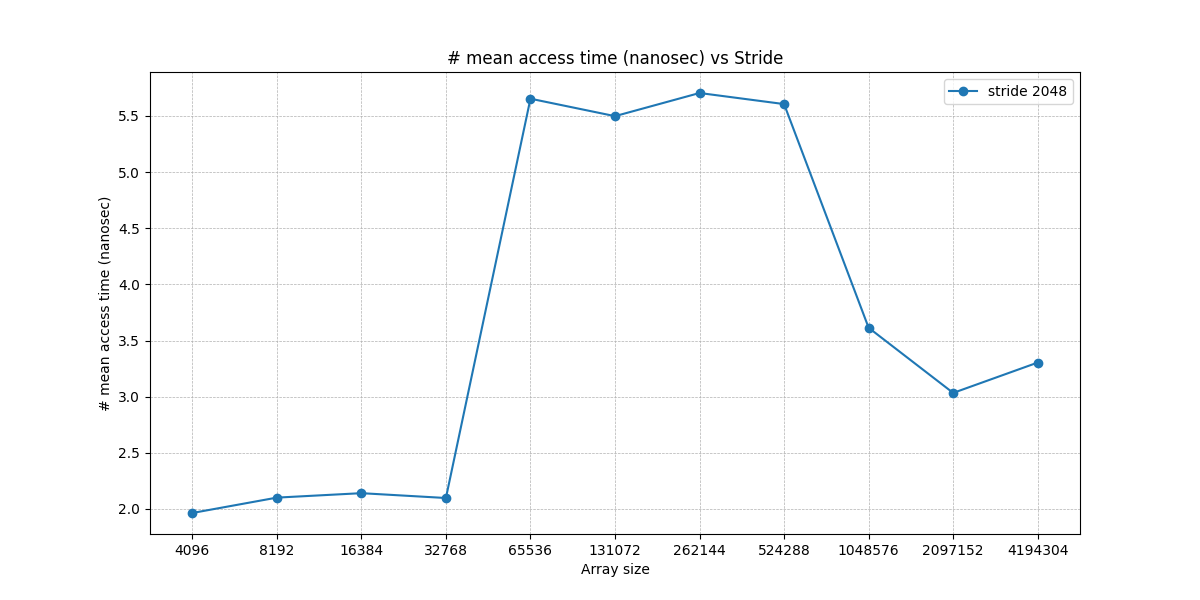
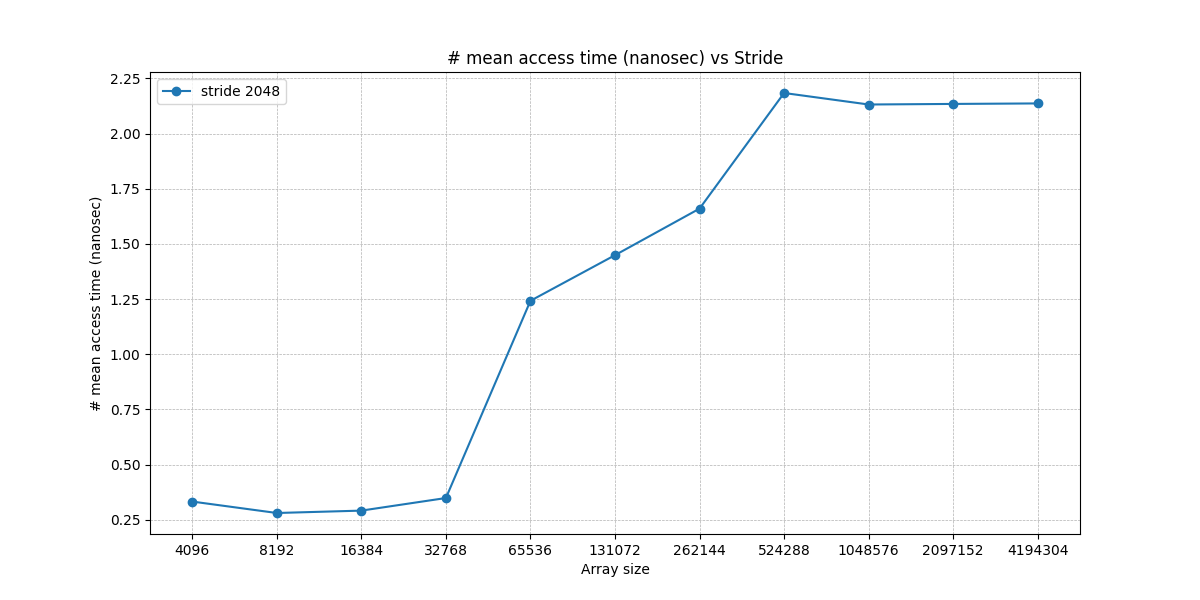
MERDAS

diff --git a/proj1/medicoes/ex2/to_excel-stride2048.py b/proj1/medicoes/ex2/to_excel-stride2048.py
@@ -2,7 +2,7 @@ import os
 import pandas as pd
 
 script_dir = os.path.dirname(os.path.abspath(__file__))
-file_path = os.path.join(script_dir, "ex2 copy.out")
+file_path = os.path.join(script_dir, "spark.out")
 output_path = os.path.join(script_dir, "dados-stride2048.xlsx")
 
 if os.path.exists(output_path):

diff --git a/proj1/medicoes/ex2/to_excel-allstrides.py b/proj1/medicoes/ex2/to_excel-allstrides.py
@@ -2,7 +2,7 @@ import os
 import pandas as pd
 
 script_dir = os.path.dirname(os.path.abspath(__file__))
-file_path = os.path.join(script_dir, "ex2.out")
+file_path = os.path.join(script_dir, "spark.out")
 output_path = os.path.join(script_dir, "all_data.xlsx")
 
 if os.path.exists(output_path):

diff --git a/proj1/medicoes/ex2/to_plot_stride2048.py b/proj1/medicoes/ex2/to_plot_stride2048.py
@@ -4,7 +4,7 @@ import numpy as np
 import matplotlib.pyplot as plt
 
 script_dir = os.path.dirname(os.path.abspath(__file__))
-excel_path = os.path.join(script_dir, "dados-stride2048.xlsx")
+excel_path = os.path.join(script_dir, "all_data.xlsx")
 
 df = pd.read_excel(excel_path)
 
